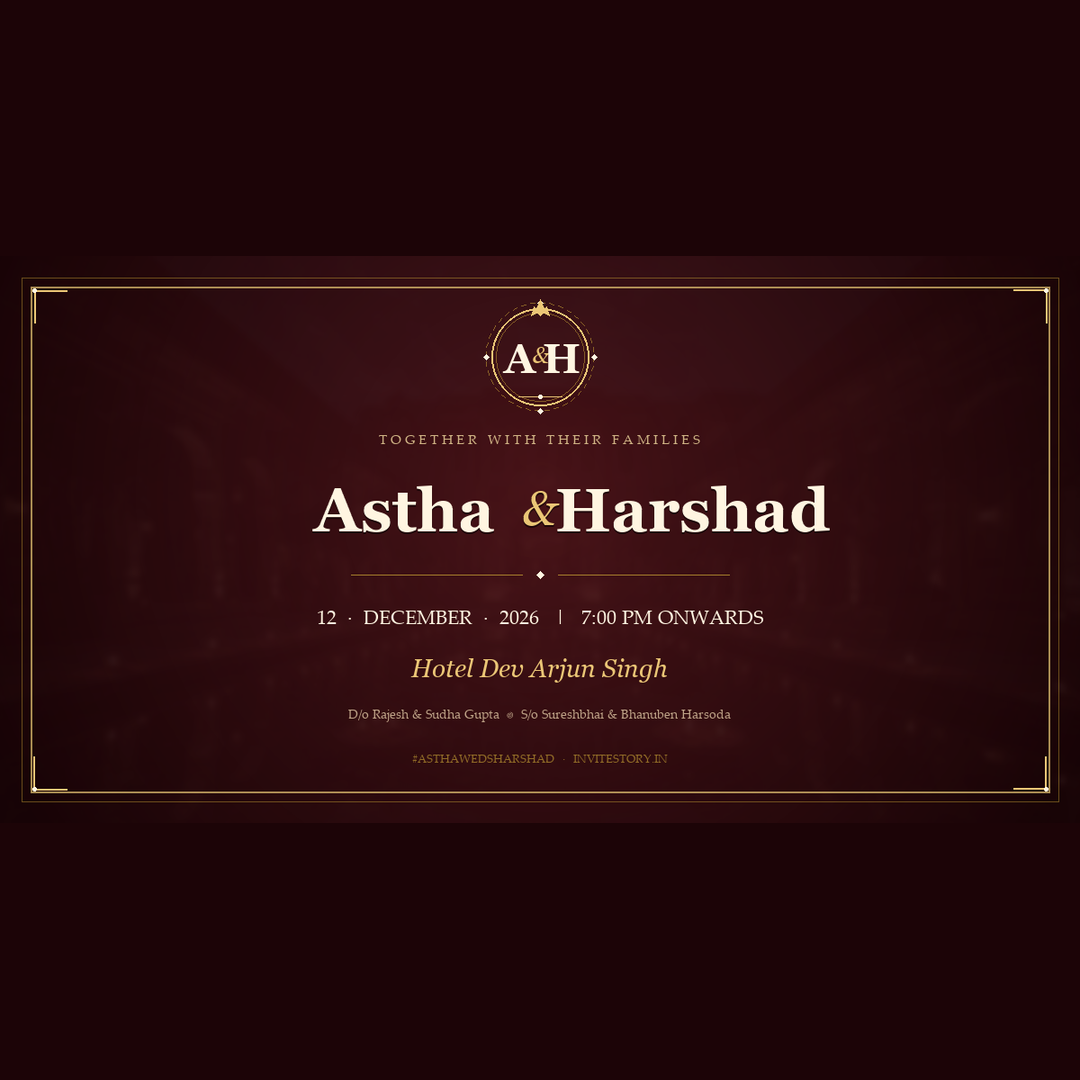
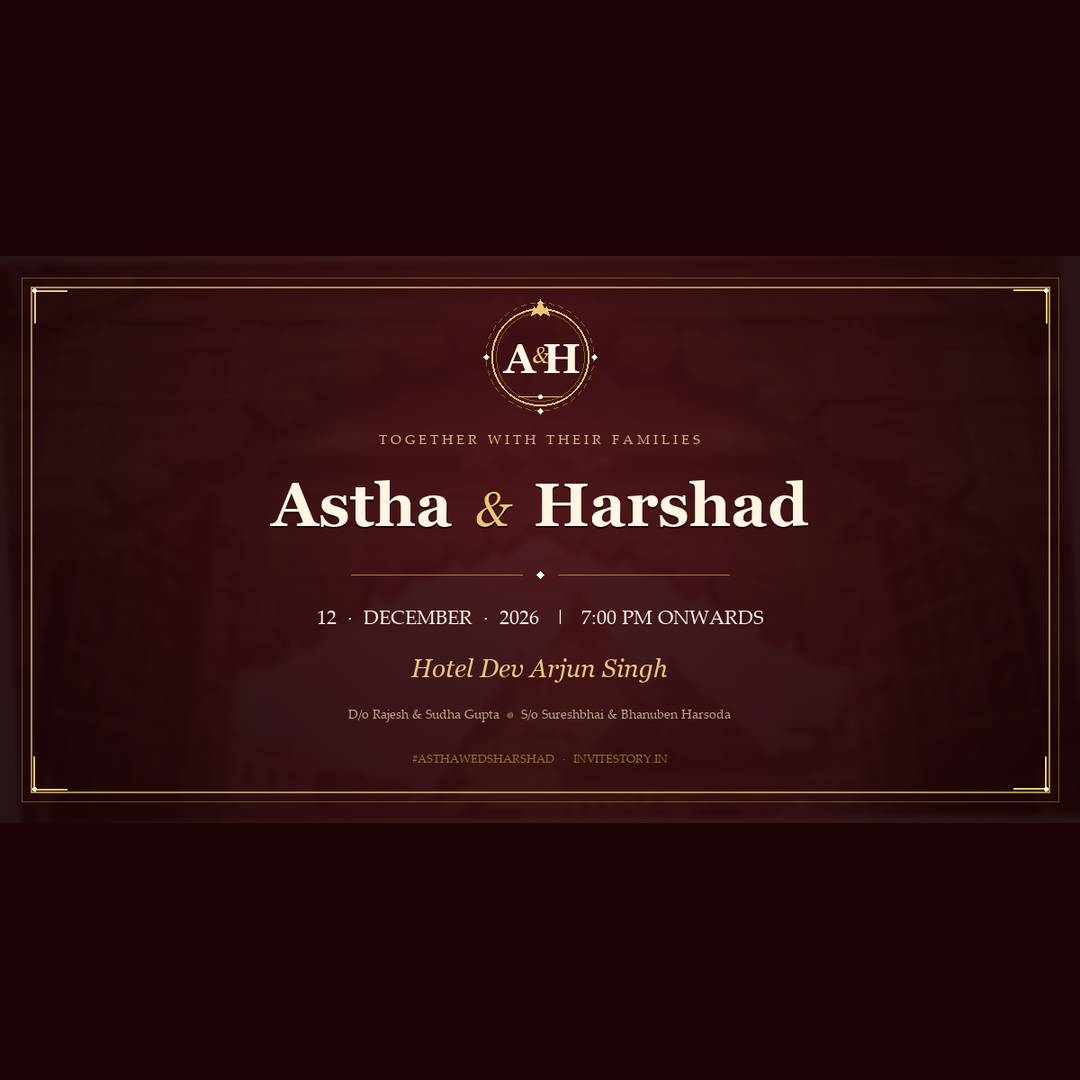
fix(og): fix spacing between & and Harshad, regenerate lossless compressed OG images

Changed region(s): [[0.2444, 0.4278, 0.7639, 0.5194]]

diff --git a/generate_og.py b/generate_og.py
@@ -141,17 +141,29 @@ def create_og_image():
     eyebrow_text = "T O G E T H E R   W I T H   T H E I R   F A M I L I E S"
     draw.text((cx, 206), eyebrow_text, font=font_eyebrow, fill=GOLD_SOFT, anchor="mm")
 
-    # Names: Astha & Harshad
+    # Names: Astha & Harshad with exact balanced spacing
+    names_baseline_y = 300
+    w_astha = font_names.getlength("Astha")
+    w_amp = font_amp.getlength("&")
+    w_harshad = font_names.getlength("Harshad")
+    name_gap = 26  # Perfectly balanced space on both sides of &
+    total_names_w = w_astha + name_gap + w_amp + name_gap + w_harshad
+
+    start_x = cx - total_names_w / 2
+    x_astha = start_x
+    x_amp = x_astha + w_astha + name_gap
+    x_harshad = x_amp + w_amp + name_gap
+
     # Draw drop shadow for names
-    names_y = 282
-    draw.text((cx - 150, names_y + 2), "Astha", font=font_names, fill=(15, 2, 4, 180), anchor="mm")
-    draw.text((cx, names_y - 2 + 2), "&", font=font_amp, fill=(15, 2, 4, 180), anchor="mm")
-    draw.text((cx + 170, names_y + 2), "Harshad", font=font_names, fill=(15, 2, 4, 180), anchor="mm")
+    shadow_offset = 2
+    draw.text((x_astha, names_baseline_y + shadow_offset), "Astha", font=font_names, fill=(15, 2, 4, 180), anchor="ls")
+    draw.text((x_amp, names_baseline_y + shadow_offset), "&", font=font_amp, fill=(15, 2, 4, 180), anchor="ls")
+    draw.text((x_harshad, names_baseline_y + shadow_offset), "Harshad", font=font_names, fill=(15, 2, 4, 180), anchor="ls")
 
     # Draw foreground names
-    draw.text((cx - 150, names_y), "Astha", font=font_names, fill=GOLD_LIGHT, anchor="mm")
-    draw.text((cx, names_y - 2), "&", font=font_amp, fill=GOLD_MAIN, anchor="mm")
-    draw.text((cx + 170, names_y), "Harshad", font=font_names, fill=GOLD_LIGHT, anchor="mm")
+    draw.text((x_astha, names_baseline_y), "Astha", font=font_names, fill=GOLD_LIGHT, anchor="ls")
+    draw.text((x_amp, names_baseline_y), "&", font=font_amp, fill=GOLD_MAIN, anchor="ls")
+    draw.text((x_harshad, names_baseline_y), "Harshad", font=font_names, fill=GOLD_LIGHT, anchor="ls")
 
     # Divider line with diamond ✦
     div_y = 354
@@ -199,6 +211,14 @@ def create_og_image():
     # Also save public/og-image.jpg at 95% quality for platforms that prefer JPG
     og_jpg_path = os.path.join("public", "og-image.jpg")
     final_rgb.save(og_jpg_path, format="JPEG", quality=95, optimize=True)
+
+    # Sync to dist/ and .output/public/ if present
+    import shutil
+    for extra_dir in ["dist", os.path.join(".output", "public")]:
+        if os.path.isdir(extra_dir):
+            shutil.copy2(og_png_path, os.path.join(extra_dir, "og-image.png"))
+            shutil.copy2(ig_png_path, os.path.join(extra_dir, "ig-image.png"))
+            shutil.copy2(og_jpg_path, os.path.join(extra_dir, "og-image.jpg"))
 
     print(f"Generated OG Image: {og_png_path} ({os.path.getsize(og_png_path)} bytes)")
     print(f"Generated IG Image: {ig_png_path} ({os.path.getsize(ig_png_path)} bytes)")
